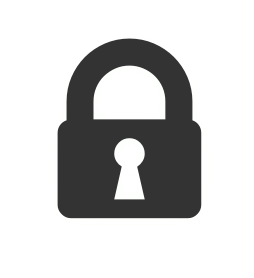
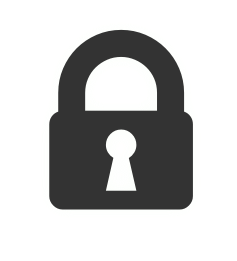
tweaking ask_offer

diff --git a/ask_offer.js b/ask_offer.js
@@ -2,7 +2,9 @@
 // array of tuples of size 2.
 var variants = [['<div class="title">Cash Chance!</div><div class="subtitle">Sell your <a class="url"></a> access for 24 hours.<br>Name your price.</div><br><br>',
                  '<img src="lock_dim.png" class="lock">'],
-                ['How much money would we have to give you for you to not have access to <a class="url"></a> for 24 hours?', '']]/*,
+                ['<div class="title">Cash Chance!</div><div class="subtitle">Sell your <a class="url"></a> access for 24 hours.<br>Set your asking price.</div><br><br>',
+                 '<img src="lock_dim.png" class="lock">']/*,
+                ['How much money would we have to give you for you to not have access to <a class="url"></a> for 24 hours?', '']],
                 ['<div class="title">Cash Chance!</div><div class="subtitle">Sell your <a class="url"></a> access for 24 hours.<br>Name your price.</div><br><br>',
                  '<style>#tint{margin-top: 10px;margin-left: 10px;border-radius: 10px;box-shadow: 0px 0px 35px #fff;width: 99%;}</style><img src="lock_bright.png" class="lock">'],
                 ['How much is the next 24 hours of <a class="url"></a> worth to you?', '(Be accurate &amp; honest, because the study might buy your access!)<br><img src="gimme_money.png" style="position: relative; left: 409px; top: -219px;">'],

diff --git a/countdown.html b/countdown.html
@@ -14,7 +14,7 @@
 		<center>
 			 <p>The study paid you $<span id='our_offer'>00.00</span> to buy your access to <a id="url"></a>!</p>
 
-			 <img src="lock.png" id="lock_pic" />
+			 <img src="lock_brightest.png" id="lock_pic" />
 
 			 <p>You will regain access in:</p>
 			 <div id="remaining_time">

diff --git a/ask_offer.html b/ask_offer.html
@@ -11,6 +11,7 @@
       <!-- 
       <iframe id="background_url"></iframe>-->
       <div id="tint">
+			<img src="uwseal.png" id="uwseal">
          <div id="info">
             <!--<h1>Utilitracker</h1>-->
             <!--<div id="rule"><hr /></div>-->

diff --git a/ask_offer.css b/ask_offer.css
@@ -117,3 +117,15 @@ input {
 	opacity: 0.50;
 }
 
+.remaining_time {
+    font-size: 70pt;
+	font-family: monaco, consolas, courier;
+	position: absolute; top: 600px;
+}
+
+#uwseal {
+	position: absolute;
+	left: 10px;
+	top: 10px;
+	opacity: 0;
+}

diff --git a/countdown.css b/countdown.css
@@ -9,6 +9,11 @@ body {
 a { color: #fff; }
 p { width: 600px; }
 
+#lock_pic {
+	margin-top: -20px;
+	margin-bottom: -30px;
+}
+
 #remaining_time {
     font-size: 70pt;
 	font-family: monaco, consolas, courier;
